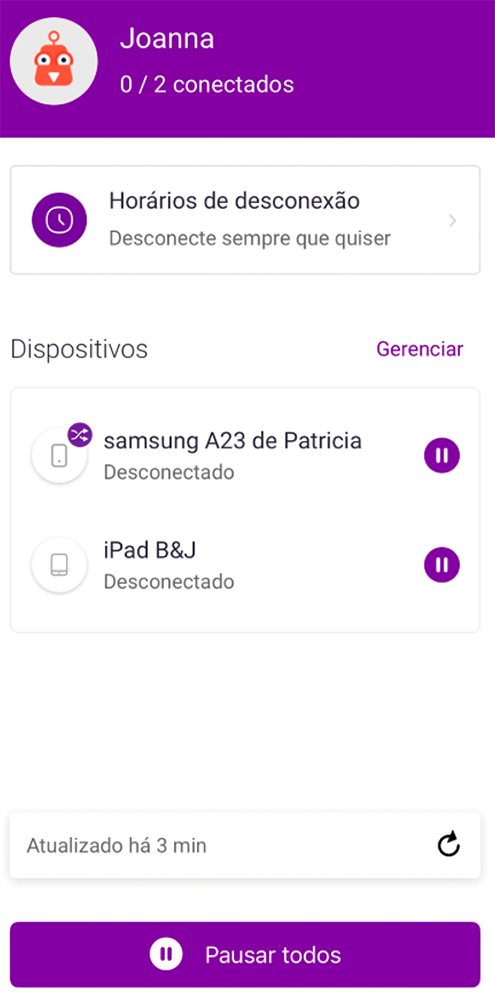
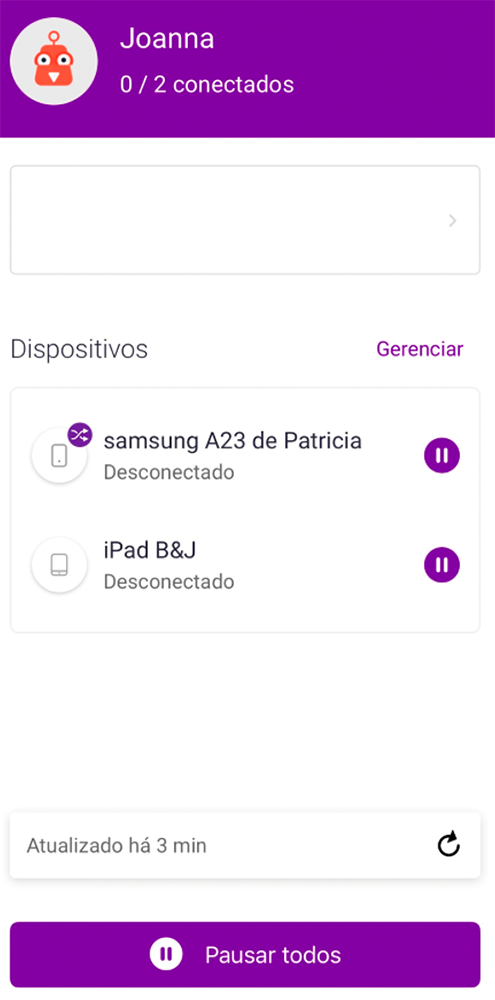
commit telas 76, 77 e 78

Changed region(s): [[0.2121, 0.186, 0.7879, 0.248], [0.0606, 0.186, 0.1818, 0.248]]

diff --git a/course/screens/76/tela.js b/course/screens/76/tela.js
@@ -1,32 +1,32 @@
 function init() {
-    // refers
-    let mascara = document.querySelector(".mascara_balao");
-    let balao = document.querySelector(".balao.b0");
-    let btFecharBalao = document.querySelector(".balao button.fechar");
+  // refers
+  let mascara = document.querySelector(".mascara_balao");
+  let balao = document.querySelector(".balao.b0");
+  let btFecharBalao = document.querySelector(".balao button.fechar");
 
-    let destaque = document.querySelector(".destaque.d0");
+  let destaque = document.querySelector(".foco");
 
-    // balloon events
-    let showDestaque = _ => {
-      destaque.style.display = "block";
-    }
+  // balloon events
+  let showDestaque = _ => {
+    destaque.classList.add('pulse')
+  }
 
-    let handleCloseBalloon = (e) => {
-      e.target.parentNode.style.display = "none";
-      mascara.style.display = "none";
+  let handleCloseBalloon = (e) => {
+    e.target.parentNode.style.display = "none";
+    mascara.style.display = "none";
 
-      showDestaque();
-    }
-    btFecharBalao.addEventListener("click", handleCloseBalloon);
+    showDestaque();
+  }
+  btFecharBalao.addEventListener("click", handleCloseBalloon);
 
-    // destaque events
-    let handleAvancar = (e) => {
-      screen.next();
-    }
-    destaque.addEventListener("click", handleAvancar);
-    
-    // Animation
-    let tl = new gsap.timeline();
-    tl.fromTo(mascara, .8, { opacity: 0 }, { opacity: 1, delay: .5 });
-    tl.fromTo(balao, .8, { opacity: 0 }, { opacity: 1 });
+  // destaque events
+  let handleAvancar = (e) => {
+    screen.next();
+  }
+  destaque.addEventListener("click", handleAvancar);
+
+  // Animation
+  let tl = new gsap.timeline();
+  tl.fromTo(mascara, .8, { opacity: 0 }, { opacity: 1, delay: .5 });
+  tl.fromTo(balao, .8, { opacity: 0 }, { opacity: 1 });
 }

diff --git a/course/screens/77/tela.js b/course/screens/77/tela.js
@@ -1,32 +1,32 @@
 function init() {
-    // refers
-    let mascara = document.querySelector(".mascara_balao");
-    let balao = document.querySelector(".balao.b0");
-    let btFecharBalao = document.querySelector(".balao button.fechar");
+  // refers
+  let mascara = document.querySelector(".mascara_balao");
+  let balao = document.querySelector(".balao.b0");
+  let btFecharBalao = document.querySelector(".balao button.fechar");
 
-    let destaque = document.querySelector(".destaque.d0");
+  let destaque = document.querySelector(".foco");
 
-    // balloon events
-    let showDestaque = _ => {
-      destaque.style.display = "block";
-    }
+  // balloon events
+  let showDestaque = _ => {
+    destaque.classList.add('pulse')
+  }
 
-    let handleCloseBalloon = (e) => {
-      e.target.parentNode.style.display = "none";
-      mascara.style.display = "none";
+  let handleCloseBalloon = (e) => {
+    e.target.parentNode.style.display = "none";
+    mascara.style.display = "none";
 
-      showDestaque();
-    }
-    btFecharBalao.addEventListener("click", handleCloseBalloon);
+    showDestaque();
+  }
+  btFecharBalao.addEventListener("click", handleCloseBalloon);
 
-    // destaque events
-    let handleAvancar = (e) => {
-      screen.next();
-    }
-    destaque.addEventListener("click", handleAvancar);
-    
-    // Animation
-    let tl = new gsap.timeline();
-    tl.fromTo(mascara, .8, { opacity: 0 }, { opacity: 1, delay: .5 });
-    tl.fromTo(balao, .8, { opacity: 0 }, { opacity: 1 });
+  // destaque events
+  let handleAvancar = (e) => {
+    screen.next();
+  }
+  destaque.addEventListener("click", handleAvancar);
+
+  // Animation
+  let tl = new gsap.timeline();
+  tl.fromTo(mascara, .8, { opacity: 0 }, { opacity: 1, delay: .5 });
+  tl.fromTo(balao, .8, { opacity: 0 }, { opacity: 1 });
 }

diff --git a/course/screens/78/tela.js b/course/screens/78/tela.js
@@ -1,32 +1,32 @@
 function init() {
-    // refers
-    let mascara = document.querySelector(".mascara_balao");
-    let balao = document.querySelector(".balao.b0");
-    let btFecharBalao = document.querySelector(".balao button.fechar");
+  // refers
+  let mascara = document.querySelector(".mascara_balao");
+  let balao = document.querySelector(".balao.b0");
+  let btFecharBalao = document.querySelector(".balao button.fechar");
 
-    let destaque = document.querySelector(".destaque.d0");
+  let destaque = document.querySelector(".foco");
 
-    // balloon events
-    let showDestaque = _ => {
-      destaque.style.display = "block";
-    }
+  // balloon events
+  let showDestaque = _ => {
+    destaque.classList.add('pulse')
+  }
 
-    let handleCloseBalloon = (e) => {
-      e.target.parentNode.style.display = "none";
-      mascara.style.display = "none";
+  let handleCloseBalloon = (e) => {
+    e.target.parentNode.style.display = "none";
+    mascara.style.display = "none";
 
-      showDestaque();
-    }
-    btFecharBalao.addEventListener("click", handleCloseBalloon);
+    showDestaque();
+  }
+  btFecharBalao.addEventListener("click", handleCloseBalloon);
 
-    // destaque events
-    let handleAvancar = (e) => {
-      screen.next();
-    }
-    destaque.addEventListener("click", handleAvancar);
-    
-    // Animation
-    let tl = new gsap.timeline();
-    tl.fromTo(mascara, .8, { opacity: 0 }, { opacity: 1, delay: .5 });
-    tl.fromTo(balao, .8, { opacity: 0 }, { opacity: 1 });
+  // destaque events
+  let handleAvancar = (e) => {
+    screen.next();
+  }
+  destaque.addEventListener("click", handleAvancar);
+
+  // Animation
+  let tl = new gsap.timeline();
+  tl.fromTo(mascara, .8, { opacity: 0 }, { opacity: 1, delay: .5 });
+  tl.fromTo(balao, .8, { opacity: 0 }, { opacity: 1 });
 }

diff --git a/course/screens/77/tela.css b/course/screens/77/tela.css
@@ -20,10 +20,10 @@
     height: 9%;
 }
 
-.destaque.d0 {
-    display: none;
-    left: 45%;
-    top: 22%;
-    width: 70%;
-    height: 9%;
+.foco {
+    top: 22.05%;
+    left: 43.5%;
+    width: 32rem;
+    height: 8rem;
+    background-image: url(../../img/btn_print_horarios_desconexao.png);
 }

diff --git a/course/screens/76/tela.css b/course/screens/76/tela.css
@@ -20,10 +20,9 @@
     height: 9%;
 }
 
-.destaque.d0 {
-    display: none;
-    left: 45%;
-    top: 12.8%;
-    width: 70%;
-    height: 9%;
+.foco {
+    top: 13.1%;
+    left: 30.6%;
+    width: 18.2rem;
+    background-image: url(../../img/btn_print_perfil_joanna.png);
 }

diff --git a/course/screens/78/tela.css b/course/screens/78/tela.css
@@ -20,10 +20,9 @@
     height: 9%;
 }
 
-.destaque.d0 {
-    display: none;
-    left: 50%;
+.foco {
     top: 66.2%;
-    width: 40%;
-    height: 9%;
+    width: 17rem;
+    height: 8rem;
+    background-image: url(../../img/btn_print_criar_horario.png);
 }

diff --git a/course/screens/76/tela.html b/course/screens/76/tela.html
@@ -13,7 +13,7 @@
         </div>
     </div>
 
-    <div class="destaque d0 abs pulse"></div>
+    <div class="divImg foco"></div>
 </div>
 
 <!-- Tela Js -->

diff --git a/course/screens/77/tela.html b/course/screens/77/tela.html
@@ -13,7 +13,7 @@
         </div>
     </div>
 
-    <div class="destaque d0 abs pulse"></div>
+    <div class="divImg foco"></div>
 </div>
 
 <!-- Tela Js -->

diff --git a/course/screens/78/tela.html b/course/screens/78/tela.html
@@ -13,7 +13,7 @@
         </div>
     </div>
 
-    <div class="destaque d0 abs pulse"></div>
+    <div class="divImg foco"></div>
 </div>
 
 <!-- Tela Js -->

diff --git a/course/js/main.js b/course/js/main.js
@@ -1,6 +1,6 @@
 //Numero de telas
 var n_telas = 1;
-var c_screen = 76;
+var c_screen = 79;
 
 const container = $("#loaded_content");
 
